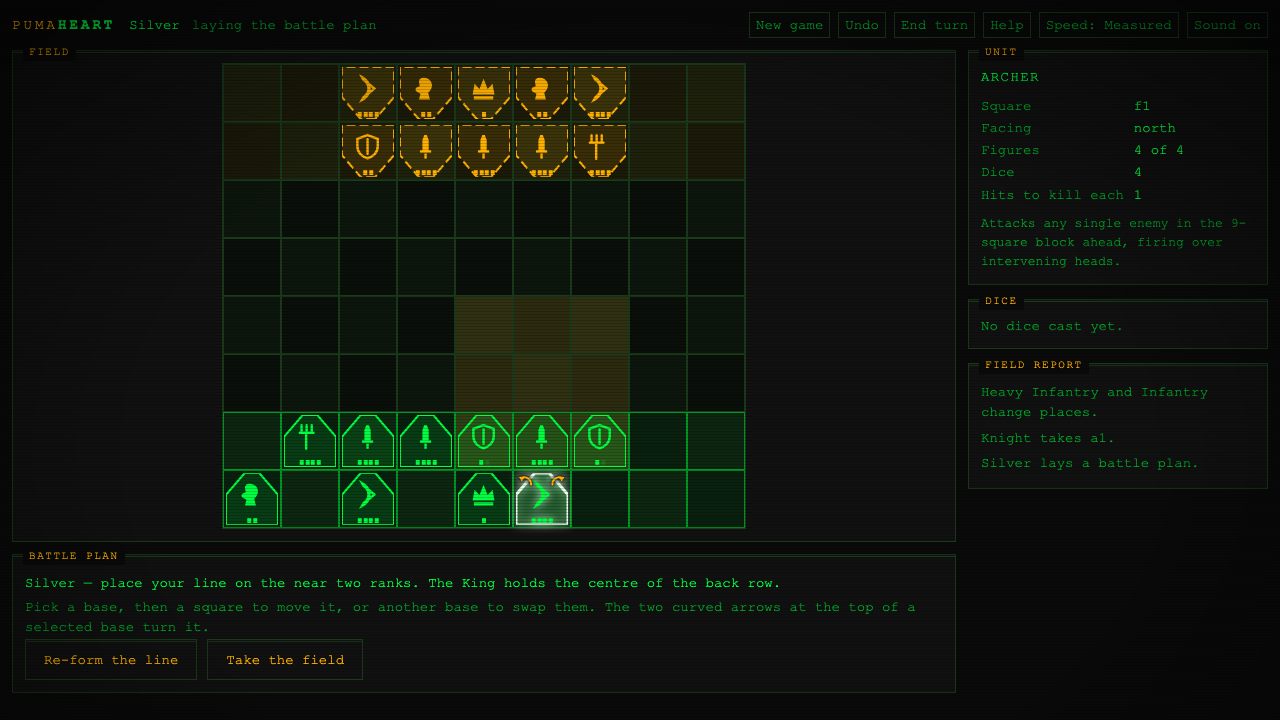
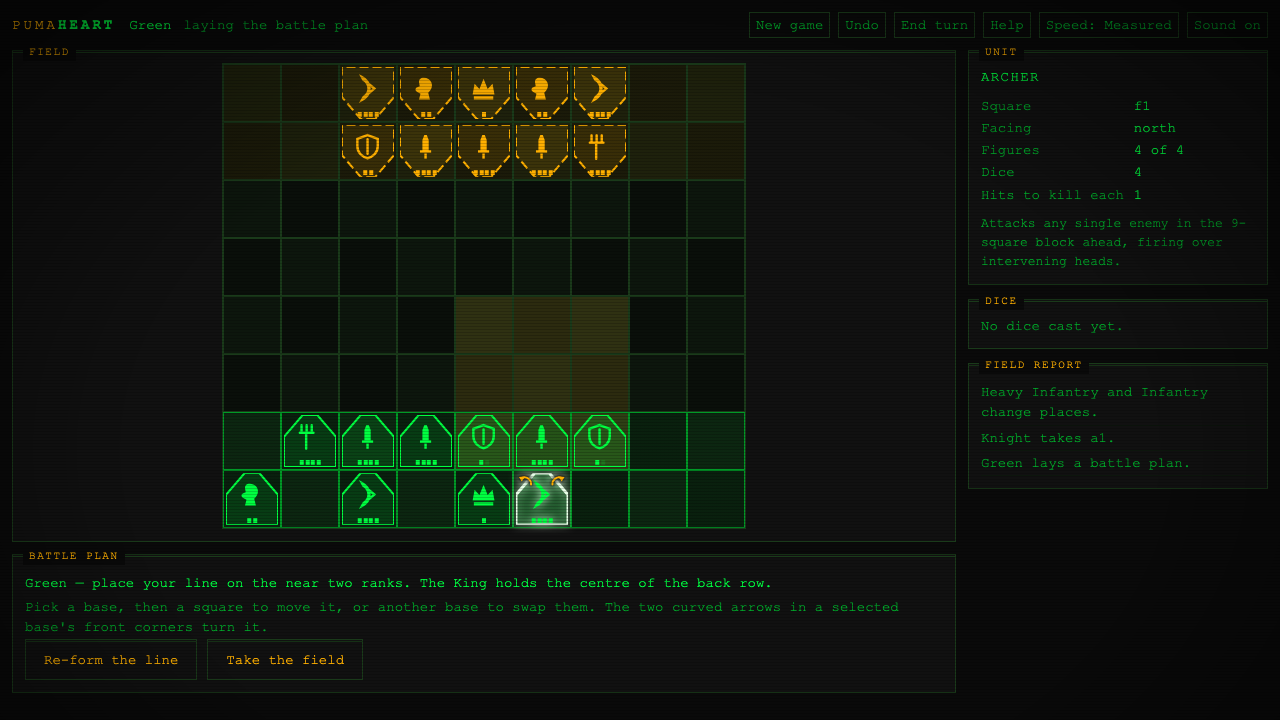
Turn handles ride the base, and side 0 is called Green
Two changes.

The turn arrows now sit in a frame carrying the base's own angle, so
they stay in the two shaved front corners whichever way a unit faces
instead of sliding onto its flat rear edge. Rotation preserves
handedness -- an arc curving anticlockwise still curves anticlockwise
at 180 degrees -- so each mark goes on meaning the same turn; only
which corner holds it changes. The frame swings with the plate through
the same FLIP transition rather than jumping.

That introduces a hazard: a moment after a turn, the corner under the
pointer holds the OTHER arrow, so a second click landing in the same
place would undo the first. The handles go inert for the length of the
base's own swing plus a little, and dim while they are. Only the
pointer path is gated -- nothing moves under a finger on the keyboard,
so q/e stay immediate -- and with motion off the lock is zero, since
there is then nothing to wait for.

Side 0 is Green, not the rulebook's Silver. The CRT palette renders it
in phosphor green, and a side named for a colour it plainly is not
costs more than the fidelity is worth. Gold is unchanged and still
printed. The tokens are --army-green and --army-gold.

Screenshots regenerated.

diff --git a/index.html b/index.html
@@ -4,23 +4,23 @@
 <meta charset="UTF-8">
 <meta name="viewport" content="width=device-width, initial-scale=1.0, viewport-fit=cover">
 <title>PumaHeart — Medieval Grid Wargame</title>
-<meta name="description" content="A faithful port of Lionheart (1997). Gold against Silver on nine squares by eight, two actions a turn. Facing matters, dice decide, and a panicking unit will shove your own line off the board.">
+<meta name="description" content="A faithful port of Lionheart (1997). Gold against Green on nine squares by eight, two actions a turn. Facing matters, dice decide, and a panicking unit will shove your own line off the board.">
 <meta name="theme-color" content="#0a0a0a">
 <meta name="color-scheme" content="dark">
 <meta name="referrer" content="no-referrer">
 <meta property="og:title" content="PumaHeart">
-<meta property="og:description" content="A faithful port of Lionheart (1997). Gold against Silver on nine squares by eight, two actions a turn. Facing matters, dice decide, and a panicking unit will shove your own line off the board.">
+<meta property="og:description" content="A faithful port of Lionheart (1997). Gold against Green on nine squares by eight, two actions a turn. Facing matters, dice decide, and a panicking unit will shove your own line off the board.">
 <meta property="og:type" content="website">
 <meta property="og:image" content="https://greykit.com/games/pumaheart/og.png">
 <meta property="og:image:width" content="1200">
 <meta property="og:image:height" content="630">
-<meta property="og:image:alt" content="A faithful port of Lionheart (1997). Gold against Silver on nine squares by eight, two actions a turn. Facing matters, dice decide, and a panicking unit will shove your own line off the board.">
+<meta property="og:image:alt" content="A faithful port of Lionheart (1997). Gold against Green on nine squares by eight, two actions a turn. Facing matters, dice decide, and a panicking unit will shove your own line off the board.">
 <meta property="og:url" content="https://greykit.com/games/pumaheart/">
 <meta name="twitter:card" content="summary_large_image">
 <meta name="twitter:title" content="PumaHeart">
-<meta name="twitter:description" content="A faithful port of Lionheart (1997). Gold against Silver on nine squares by eight, two actions a turn. Facing matters, dice decide, and a panicking unit will shove your own line off the board.">
+<meta name="twitter:description" content="A faithful port of Lionheart (1997). Gold against Green on nine squares by eight, two actions a turn. Facing matters, dice decide, and a panicking unit will shove your own line off the board.">
 <meta name="twitter:image" content="https://greykit.com/games/pumaheart/og.png">
-<meta name="twitter:image:alt" content="A faithful port of Lionheart (1997). Gold against Silver on nine squares by eight, two actions a turn. Facing matters, dice decide, and a panicking unit will shove your own line off the board.">
+<meta name="twitter:image:alt" content="A faithful port of Lionheart (1997). Gold against Green on nine squares by eight, two actions a turn. Facing matters, dice decide, and a panicking unit will shove your own line off the board.">
 <link rel="manifest" href="manifest.webmanifest">
 <link rel="apple-touch-icon" href="apple-touch-icon.png">
 <link rel="icon" type="image/svg+xml" href="icon.svg">
@@ -63,8 +63,8 @@
      confuses. Side is therefore also carried by glyph treatment
      (side 0 filled, side 1 outlined), by the figure pips, and by
      the aria-label. Never let colour be the only channel. */
-  --silver: var(--green);            /* side 0 */
-  --gold: var(--amber);             /* side 1 */
+  --army-green: var(--green);       /* side 0 */
+  --army-gold: var(--amber);        /* side 1 */
   --sel: var(--white);             /* selection ring            */
   --mv: var(--cyan);               /* legal move destination    */
   --tg: var(--red);                /* legal attack target       */
@@ -72,7 +72,7 @@
   --lane: rgba(0, 204, 204, 0.12);   /* a mounted charge lane   */
   --sq-light: #0d160d;
   --sq-dark: #0a0f0a;
-  --deploy-silver: rgba(0, 255, 65, 0.07);   /* side 0 deployment ranks */
+  --deploy-green: rgba(0, 255, 65, 0.07);    /* side 0 deployment ranks */
   --deploy-gold: rgba(255, 176, 0, 0.07);   /* side 1 deployment ranks */
 
   /* Floors at 32px so a 9-wide board fits a 380px viewport. */
@@ -151,8 +151,8 @@ body::after {
    BOARD & UNITS
    Side is carried by FOUR channels, never by colour alone: hue,
    a solid vs dashed base ring, the figure pips, and the
-   aria-label. --silver and --gold sit at 14.5:1 and 10.8:1 against
-   the ground but only 1.34:1 against each other -- they differ
+   aria-label. --army-green and --army-gold sit at 14.5:1 and 10.8:1
+   against the ground but only 1.34:1 against each other -- they differ
    in hue, not brightness, which is exactly the pair red-green
    colour blindness confuses.
    ============================================================ */
@@ -162,7 +162,7 @@ body::after {
   border: 1px solid var(--border); background: var(--sq-dark);
 }
 .sq.lt { background: var(--sq-light); }
-.sq.dz0 { background-image: linear-gradient(var(--deploy-silver), var(--deploy-silver)); }
+.sq.dz0 { background-image: linear-gradient(var(--deploy-green), var(--deploy-green)); }
 .sq.dz1 { background-image: linear-gradient(var(--deploy-gold), var(--deploy-gold)); }
 /* Highlights live on two pseudo layers rather than one box-shadow, so each
    can animate independently: ::before is the wash and paints UNDER the unit,
@@ -197,8 +197,8 @@ body::after {
 #grid.is-entering .u.s1 { --march: -26px; }
 
 .u { position: absolute; inset: 2px; display: flex; align-items: center; justify-content: center; }
-.u.s0 { color: var(--silver); }
-.u.s1 { color: var(--gold); }
+.u.s0 { color: var(--army-green); }
+.u.s1 { color: var(--army-gold); }
 /* The base plate. Stroke stays 2px at every board size, so the shave reads
    the same on a phone as on a desktop. */
 .u .base { position: absolute; inset: 0; width: 100%; height: 100%; transform-origin: 50% 50%; }
@@ -416,7 +416,20 @@ td.step b { display: inline-block; min-width: 1.6em; text-align: center; }
    horizontal and packed, so above the unit is the reliably
    empty direction -- flanking it would land on its neighbours.
    ============================================================ */
+/* The frame the handles ride in. It carries the base's angle, so the two
+   arrows stay in the shaved corners instead of sliding onto the flat rear
+   edge when a unit turns away from north. It covers the whole base, so it
+   must not eat clicks meant for the square underneath. */
+.rots {
+  position: absolute; inset: 0; transform-origin: 50% 50%;
+  pointer-events: none;
+}
+/* Inert while the swing settles -- see rotLockMs(). */
+.rots.is-locked .rot { pointer-events: none; opacity: 0.45; }
+.rot { transition: opacity 120ms var(--ease-out-quart); }
+
 .rot {
+  pointer-events: auto;
   /* Tucked into the base's own top corners rather than floating above it.
      Bare strokes sitting clear of the unit landed on whatever occupied the
      rank behind, and an opaque box was what used to hide that. A north-facing
@@ -544,8 +557,8 @@ td.step b { display: inline-block; min-width: 1.6em; text-align: center; }
 
 /* HUD & status */
 #hud-state { display: flex; align-items: center; gap: 12px; }
-.side.s0 { color: var(--silver); }
-.side.s1 { color: var(--gold); }
+.side.s0 { color: var(--army-green); }
+.side.s1 { color: var(--army-gold); }
 .acts { letter-spacing: 2px; color: var(--amber); }
 .rnd { color: var(--text-dim); }
 .unit-name { margin: 0 0 8px; letter-spacing: 0.1em; text-transform: uppercase; }
@@ -845,10 +858,12 @@ function newGame(seed, opts) {
     cfg: { setup: (opts && opts.setup) || "basic", opponent: "ai",
            massiveInfantry: false, partialBases: true, roundCap: 0 },
     phase: "play", step: "begin", round: 1, turn: 0, actionsLeft: 2, first: 0,
-    /* p.2: "There are two armies -- one gold, one silver." The names are the
-       rulebook's own, not ours. */
+    /* p.2: "There are two armies -- one gold, one silver." Gold is gold here.
+       Silver is not: the CRT palette renders side 0 in phosphor green, and a
+       side named for a colour it is plainly not is worse than a side named
+       for what the player can see. */
     players: [
-      { id: 0, army: "silver", name: "Silver", isBot: false, skill: 1, losses: 0 },
+      { id: 0, army: "green", name: "Green", isBot: false, skill: 1, losses: 0 },
       { id: 1, army: "gold", name: "Gold", isBot: true, skill: 1, losses: 0 },
     ],
     units: [], botPlan: [], dice: null, log: [], gameOver: false, result: null, nextUid: 1,
@@ -1733,13 +1748,20 @@ function canTurnNow(u) {
   return actionCost(u, "turn") <= G.actionsLeft;
 }
 
+/* The handles live in a frame carrying the base's own angle, so they stay in
+   the two shaved corners whichever way the unit faces instead of sliding onto
+   its flat rear edge. Rotation preserves handedness -- an arc curving
+   anticlockwise still curves anticlockwise at 180 degrees -- so the mark goes
+   on meaning the same turn; only which corner holds it changes. */
 function rotateHandles(u) {
   if (!canTurnNow(u)) return "";
-  return ["left", "right"].map(dir => `<span class="rot rot-${dir}" data-act="rot${dir === "left" ? "L" : "R"}"
+  const arms = ["left", "right"].map(dir => `<span class="rot rot-${dir}" data-act="rot${dir === "left" ? "L" : "R"}"
     role="button" tabindex="0" aria-label="Turn ${esc(defOf(u).name)} ${dir}">
     <svg viewBox="0 0 24 24" aria-hidden="true">
       <path class="arc" d="${ROT_ARC[dir]}"/><path class="head" d="${ROT_HEAD[dir]}"/>
     </svg></span>`).join("");
+  return `<span class="rots${rotLocked() ? " is-locked" : ""}"
+    style="transform:rotate(${baseAngle(u)}deg)">${arms}</span>`;
 }
 
 function renderBoard() {
@@ -1885,7 +1907,7 @@ function renderCurtain() {
   </div>`;
 }
 
-/* "Silver Archer attacks Gold Infantry" reads far faster when the two are
+/* "Green Archer attacks Gold Infantry" reads far faster when the two are
    coloured. Built from the army and unit names rather than hard-coded, so it
    follows a rename, and applied at RENDER time -- G.log stays plain strings
    and keeps round-tripping through JSON. */
@@ -2125,9 +2147,39 @@ function deployActivate(c, r) {
 }
 
 /* The handles are the primary way to turn; the keyboard mirrors them. */
-function turnSelected(dir) {
+/* Because the handles now swing with the base, the corner under the pointer
+   holds the OTHER arrow a moment after a turn -- so a second click landing in
+   the same place would undo the first. The handles go inert until the swing
+   has settled, which is the length of the base's own rotation plus a little.
+   Presentation only: the keys are not gated, since nothing moves under a
+   finger on the keyboard. */
+function rotLockMs() {
+  const sf = UI.speedFactor == null ? 1 : UI.speedFactor;
+  if (UI.reducedMotion || sf === 0) return 0;
+  return Math.round(240 * sf * 1.25) + 90;
+}
+
+function rotLocked() { return UI.rotLock != null && Date.now() < UI.rotLock; }
+
+function armRotLock() {
+  const ms = rotLockMs();
+  if (!ms) return;
+  UI.rotLock = Date.now() + ms;
+  clearTimeout(UI.rotLockTimer);
+  UI.rotLockTimer = setTimeout(() => {
+    UI.rotLock = null;
+    const el = document.querySelector(".rots.is-locked");
+    if (el) el.classList.remove("is-locked");
+  }, ms);
+}
+
+function turnSelected(dir, viaHandle) {
   const u = selUnit();
   if (!u || !canTurnNow(u)) return;
+  if (viaHandle && rotLocked()) return;
+  /* Armed BEFORE the render, or the handles that come back would not know
+     they are inert. */
+  armRotLock();
   faceSelected(((u.face + dir) % 4 + 4) % 4);
 }
 
@@ -2213,8 +2265,8 @@ const ACTS = {
   musterFigs: el => musterAdjust(el.dataset.type, "figs", +el.dataset.delta),
   musterPreset: () => { UI.muster = basicSpec(); updateAll(); },
   musterConfirm: musterConfirm,
-  rotL: () => turnSelected(-1),
-  rotR: () => turnSelected(1),
+  rotL: () => turnSelected(-1, true),
+  rotR: () => turnSelected(1, true),
   speed: cycleSpeed,
   mute: toggleMute,
   menuOpen: openMenu,
@@ -2855,7 +2907,7 @@ function renderMuster() {
   const n = specBases(spec);
 
   el.innerHTML = `<div class="box muster-card">
-    <span class="box-label">Muster &mdash; <span class="side s${UI.musterSide}">${esc((G && G.players ? G.players[UI.musterSide].name : UI.musterSide === 0 ? "Silver" : "Gold"))}</span></span>
+    <span class="box-label">Muster &mdash; <span class="side s${UI.musterSide}">${esc((G && G.players ? G.players[UI.musterSide].name : UI.musterSide === 0 ? "Green" : "Gold"))}</span></span>
     <p class="dim">Ten bases take the field. The King holds the centre of the back row.
       Leave it as it stands for the printed army, or muster your own.</p>
     <table class="muster">
@@ -2959,9 +3011,13 @@ function playFlip() {
       el.style.transition = "none";
       el.style.transform = `translate(${dx}px, ${dy}px)`;
     }
+    /* The selected unit's turn handles ride the same angle, so they swing
+       with the plate rather than jumping to the new corners. */
+    const rots = el.querySelector(".rots");
     if (spun) {
       base.style.transition = "none";
       base.style.transform = `rotate(${was.angle}deg)`;
+      if (rots) { rots.style.transition = "none"; rots.style.transform = `rotate(${was.angle}deg)`; }
     }
     requestAnimationFrame(() => {
       if (dx || dy) {
@@ -2971,8 +3027,10 @@ function playFlip() {
       if (spun) {
         /* A shade longer than the slide: a piece swinging round reads better
            slightly behind the piece travelling. */
-        base.style.transition = `transform ${Math.round(ms * 1.25)}ms var(--ease-out-expo) ${Math.round(d)}ms`;
+        const spin = `transform ${Math.round(ms * 1.25)}ms var(--ease-out-expo) ${Math.round(d)}ms`;
+        base.style.transition = spin;
         base.style.transform = `rotate(${toAngle}deg)`;
+        if (rots) { rots.style.transition = spin; rots.style.transform = `rotate(${toAngle}deg)`; }
       }
     });
   }
@@ -3242,8 +3300,8 @@ function renderHelp() {
 
     <h3>Playing with the mouse</h3>
     <p>Click one of your bases to select it. Its legal moves ring in green and anything it can
-       attack rings in red &mdash; click a ring to act. The two curved arrows at the top of a
-       selected base turn it a quarter turn each way, and turning costs an action like the rest.
+       attack rings in red &mdash; click a ring to act. The two curved arrows in a selected base's
+       front corners turn it a quarter turn each way, and turning costs an action like the rest.
        Everything below is a shortcut for something you can click.</p>
 
     <h3>Keys</h3>
@@ -3564,7 +3622,7 @@ function renderDeployBar() {
     <p class="dep-who"><span class="side s${side}">${esc(G.players[side].name)}</span>
       &mdash; place your line on the near two ranks. The King holds the centre of the back row.</p>
     <p class="dim">Pick a base, then a square to move it, or another base to swap them.
-      The two curved arrows at the top of a selected base turn it.</p>
+      The two curved arrows in a selected base's front corners turn it.</p>
     <div class="muster-actions">
       <button class="btn" data-act="deployAuto">Re-form the line</button>
       <button class="btn" data-act="deployReady">Take the field</button>
@@ -3689,7 +3747,7 @@ function testPosition(specs) {
        any render of a test position throws, which makes __PH.ruleTests()
        unsafe to run from the console mid-game. */
     players: [
-      { id: 0, army: "silver", name: "Silver", isBot: false, skill: 1, losses: 0 },
+      { id: 0, army: "green", name: "Green", isBot: false, skill: 1, losses: 0 },
       { id: 1, army: "gold", name: "Gold", isBot: true, skill: 1, losses: 0 },
     ],
     units: [], dice: null, log: [], gameOver: false, result: null, nextUid: 1,
@@ -4335,7 +4393,7 @@ const UI = {
   eventQueue: [], animating: false, advancing: false, needAdvance: false,
   curtain: false, curtainThen: null, speedFactor: 1, undo: [], help: false,
   musterOpen: false, musterSide: 0, muster: null, musterSpecs: null, pendingOpponent: "ai",
-  muted: false, speed: 1, rects: null,
+  muted: false, speed: 1, rects: null, rotLock: null, rotLockTimer: null,
   menuOpen: false, helpOpen: false, tutorialOpen: false, tutorialStep: 0,
   bloom: false, lastSel: null, entering: false, lastActions: null, lastTurnKey: null,
   pendingSkill: 1, houseRules: null,

diff --git a/.impeccable.md b/.impeccable.md
@@ -33,8 +33,10 @@ tension belongs to the dice and the panic cascade, never to the chrome.
 - **Motion: modern polish under the retro skin.** Contemporary craft — staggered reveals, real
   hover feedback, exponential easing — wearing CRT colours. Not period restraint, and not
   glitch pastiche.
-- **No invented fiction.** The armies are Gold and Silver because that is what the rulebook
-  calls them, and the unit names are the printed ones. An earlier draft dressed the game in an
+- **No invented fiction.** The unit names are the printed ones, and the armies keep the
+  rulebook's Gold; side 0 is called Green rather than the printed Silver because the CRT
+  palette renders it in phosphor green, and a side named for a colour it plainly is not
+  costs more than the fidelity is worth. An earlier draft dressed the game in an
   anthropomorphic puma people; it was flavour the port did not need, and pumas are solitary
   anyway. The name PumaHeart is the portfolio's, not the game's.
 - **Dark only.** No web fonts, no external assets, nothing fetched at runtime.

diff --git a/README.md b/README.md
@@ -1,6 +1,6 @@
 # PumaHeart
 
-**A faithful port of Lionheart (Parker Brothers, 1997). Gold against Silver on nine squares by eight, two actions a turn.**
+**A faithful port of Lionheart (Parker Brothers, 1997). Gold against Green on nine squares by eight, two actions a turn.**
 
 A port, not a redesign. Every rule below is transcribed from the official Parker Brothers
 rulebook for *Lionheart* — designed by Larry Harris, product `40742-I` — which Hasbro still
@@ -132,7 +132,7 @@ rider threatens from the opening position.
 ## Also plays by keyboard
 
 Everything is done with the mouse: click a base, then a square to
-move it or a ring to attack; the two curved arrows at the top of a selected base turn it. These
+move it or a ring to attack; the two curved arrows in its front corners turn it. These
 shortcuts mirror that for anyone who prefers them.
 
 
